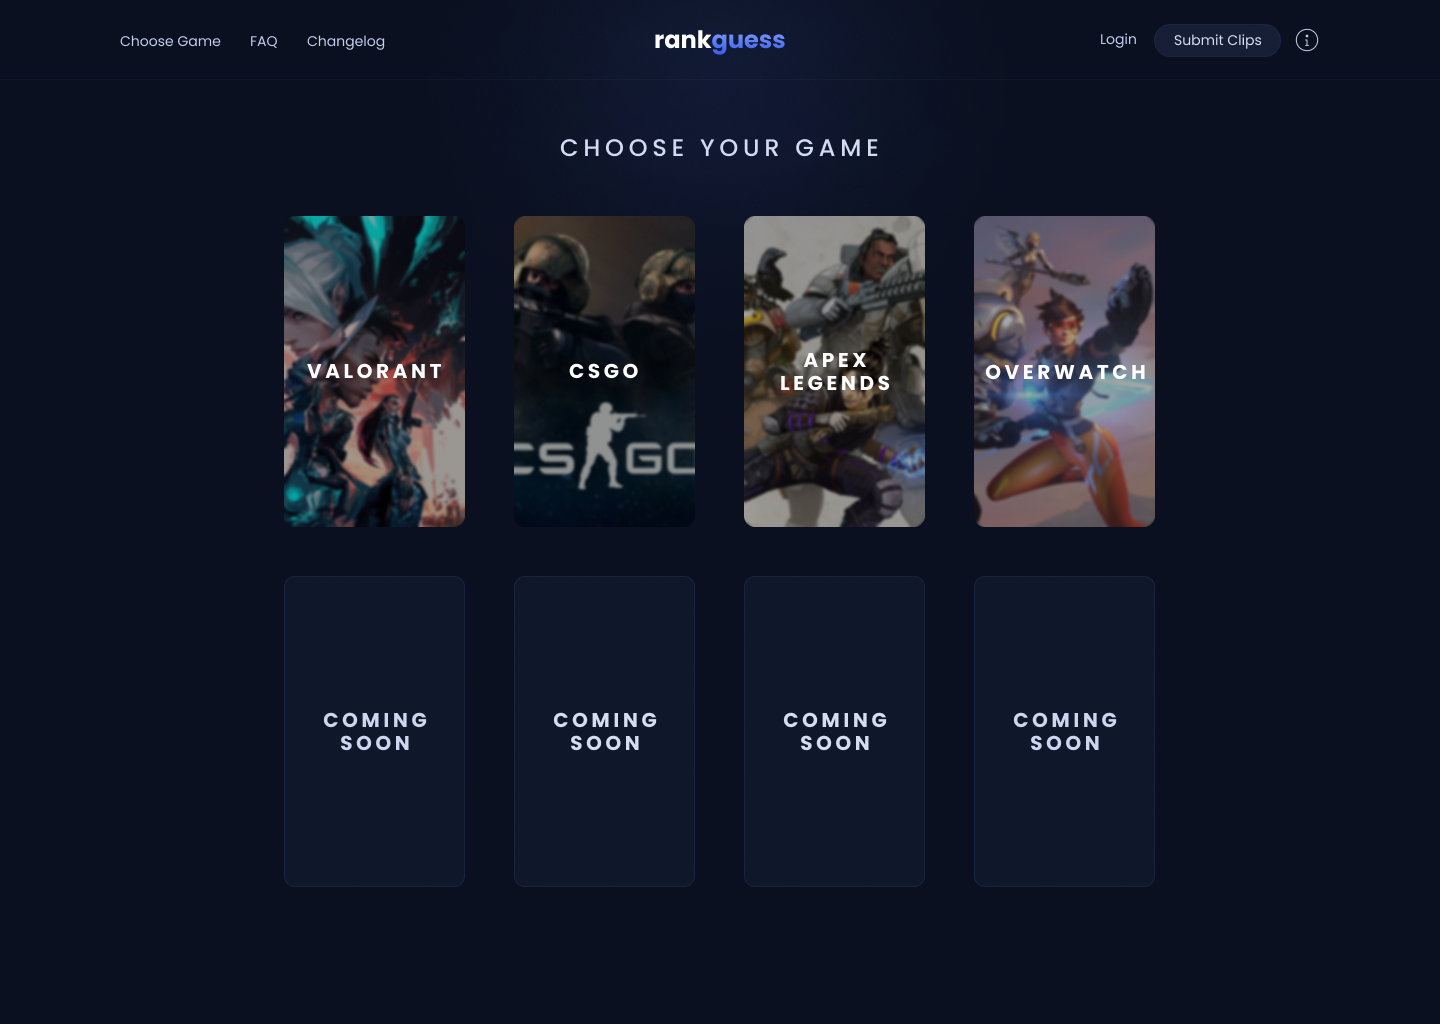
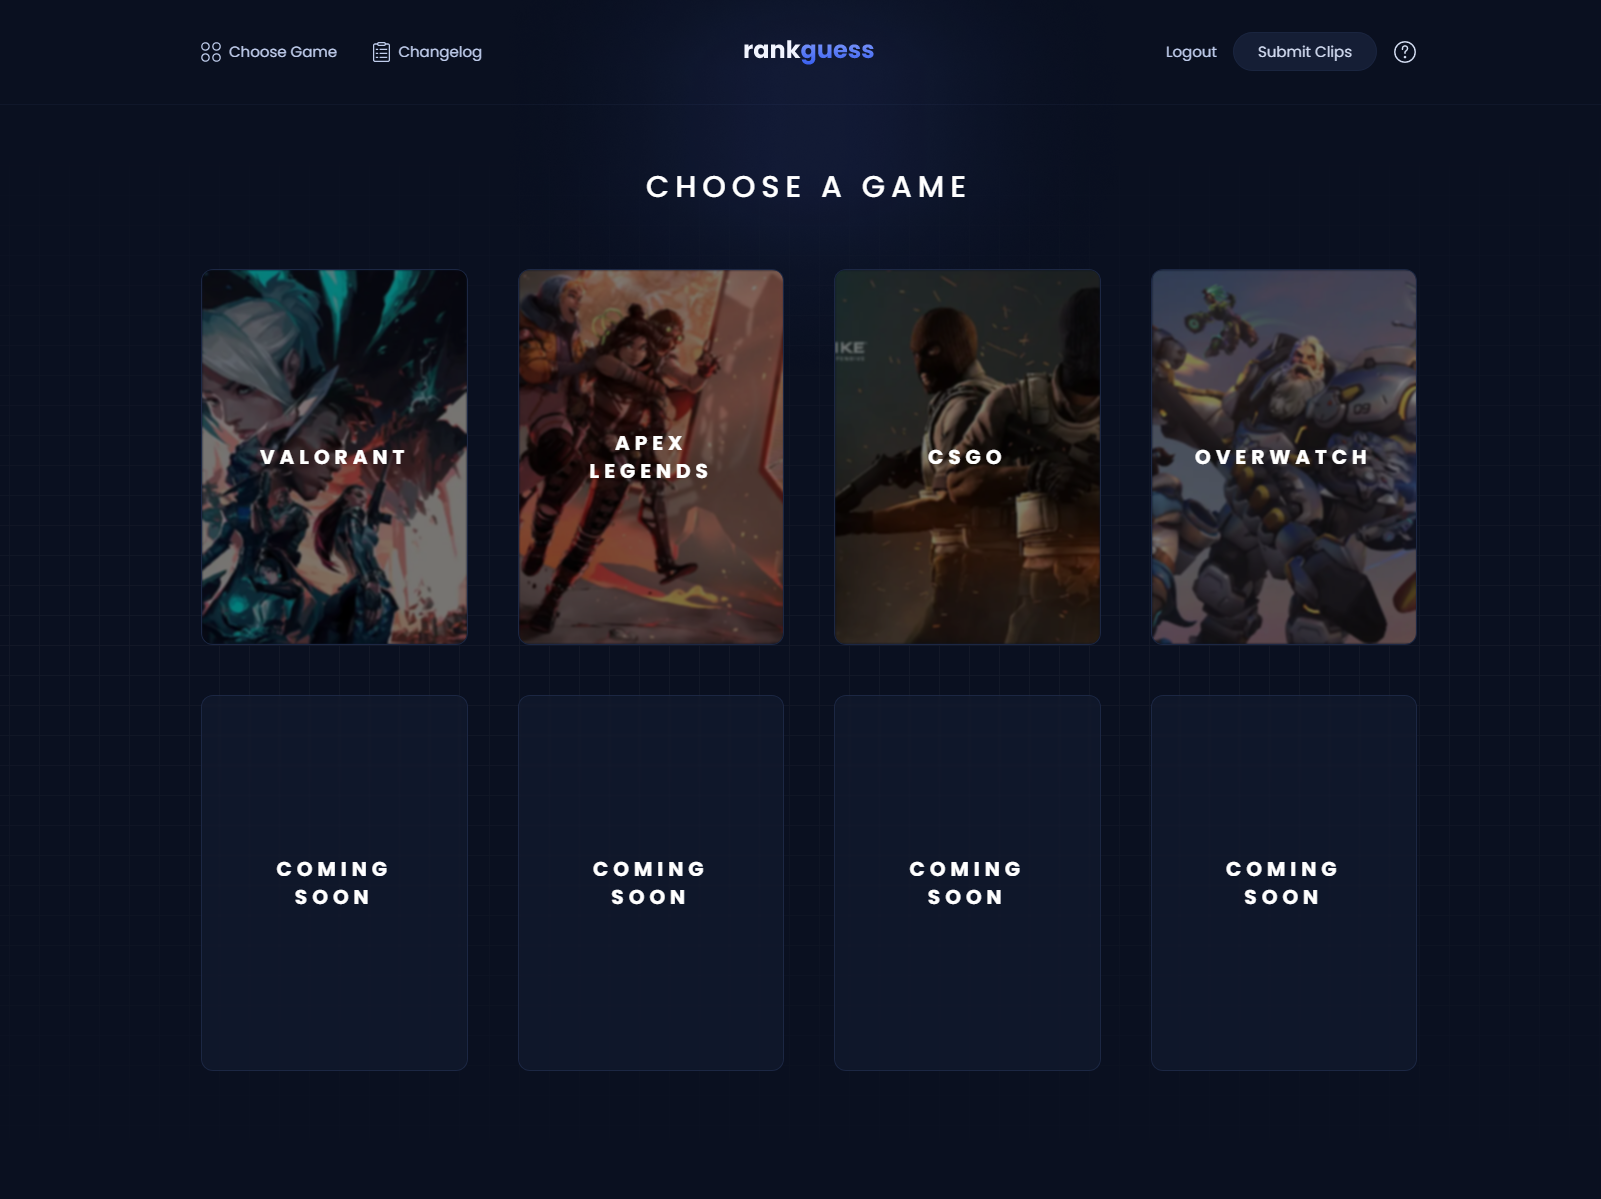
Changelog is fully functional with dummy data

diff --git a/src/components/Modal.tsx b/src/components/Modal.tsx
@@ -41,12 +41,12 @@ export const ModalHeader: FC<PropsWithChildren<ModalHeaderProps>> = ({
   }, [setIsOpen]);
 
   return (
-    <div className='flex w-full items-start justify-between border-b border-b-blueish-grey-700/80 pb-2'>
+    <div className='flex w-full items-start justify-between border-b border-b-blueish-grey-600/80 pb-2'>
       <h2 className='text-lg font-semibold text-neutral-100 md:text-xl lg:text-2xl'>
         {children}
       </h2>
       <button
-        className='absolute right-[-1px] top-[-1px] rounded-bl-xl rounded-tr-xl border border-blueish-grey-700/80 bg-blueish-grey-800 bg-opacity-[20%] p-2 text-neutral-200 transition-colors duration-150 hover:bg-opacity-[80%] hover:text-neutral-100'
+        className='absolute right-[-1px] top-[-1px] rounded-bl-xl rounded-tr-xl border border-blueish-grey-600/80 bg-blueish-grey-600 bg-opacity-[20%] p-2 text-neutral-200 transition-colors duration-150 hover:bg-opacity-[60%] hover:text-neutral-100'
         onClick={handleClose}>
         <span className='sr-only'>Close information modal</span>
         <Close className='h-4 w-auto' />
@@ -57,16 +57,16 @@ export const ModalHeader: FC<PropsWithChildren<ModalHeaderProps>> = ({
 
 export const ModalBody: FC<PropsWithChildren> = ({ children }) => {
   return (
-    <p className='slim-scrollbar w-full overflow-y-auto py-3 text-neutral-200'>
+    <div className='slim-scrollbar w-full overflow-y-auto py-3 text-neutral-200'>
       {children}
-    </p>
+    </div>
   );
 };
 
 export const ModalFooter: FC<PropsWithChildren> = ({ children }) => {
   return (
-    <div className='w-full border-t border-t-blueish-grey-700/80 pt-3 text-sm text-neutral-200 md:text-base'>
-      <p>{children}</p>
+    <div className='w-full border-t border-t-blueish-grey-600/80 pt-3 text-sm text-neutral-200 md:text-base'>
+      {children}
     </div>
   );
 };
@@ -110,7 +110,7 @@ export const Modal: FC<PropsWithChildren<ModalProps>> = ({
         <Container>
           <div
             onClick={e => e.stopPropagation()}
-            className='flex max-h-[60vh] min-h-[10rem] w-full flex-col items-start overflow-hidden rounded-xl border border-blueish-grey-700/80 bg-blueish-grey-800 bg-opacity-[70%] p-8 backdrop-blur-[6px] md:max-h-[70vh] md:min-w-[35rem] md:max-w-[35rem] lg:min-w-[40rem] lg:max-w-[45rem]'>
+            className='flex max-h-[60vh] min-h-[10rem] w-full flex-col items-start overflow-hidden rounded-xl border border-blueish-grey-600/80 bg-blueish-grey-800 bg-opacity-[70%] p-8 backdrop-blur-[6px] md:max-h-[70vh] md:min-w-[35rem] md:max-w-[35rem] lg:min-w-[40rem] lg:max-w-[45rem]'>
             {children}
           </div>
         </Container>

diff --git a/src/data/changelog.tsx b/src/data/changelog.tsx
@@ -1,0 +1,79 @@
+interface ChangelogProps {
+  version: string;
+  date: string;
+  changes: {
+    title: string;
+    change: string[];
+  }[];
+}
+
+const changelog: ChangelogProps[] = [
+  {
+    version: '1.3.0',
+    date: 'March 5, 2023',
+    changes: [
+      {
+        title: 'Lorem ipsum dolor',
+        change: [
+          'Lorem, ipsum dolor sit amet consectetur adipisicing elit. Assumenda, magni?',
+        ],
+      },
+      {
+        title: 'Another System',
+        change: [
+          'Lorem, ipsum dolor sit amet consectetur adipisicing elit. Assumenda, magni?',
+          'Lorem ipsum dolor sit amet consectetur adipisicing elit. Nemo eaque repudiandae vel, cum excepturi, nisi autem officia quia dolorem temporibus ducimus, voluptate vero sed ullam.',
+        ],
+      },
+    ],
+  },
+  {
+    version: '1.2.0',
+    date: 'March 5, 2023',
+    changes: [
+      {
+        title: 'Lorem ipsum dolor sit amet',
+        change: [
+          'Lorem, ipsum dolor sit amet consectetur adipisicing elit. Assumenda, magni?',
+        ],
+      },
+      {
+        title: 'Another',
+        change: [
+          'Lorem, ipsum adipisicing?',
+          'Lorem ipsum dolor sit amet consectetur adipisicing elit. Nemo eaque repudiandae vel, cum excepturi, nisi autem officia quia dolorem temporibus ducimus, voluptate vero sed ullam.',
+        ],
+      },
+    ],
+  },
+  {
+    version: '1.1.0',
+    date: 'March 5, 2023',
+    changes: [
+      {
+        title: 'Lorem sit amet',
+        change: [
+          'Created an authentication system using NextAuths Google Provider and Prisma',
+          'Lorem, ipsum dolor sit amet consectetur adipisicing elit. Assumenda, magni?',
+          'Lorem ipsum dolor sit amet consectetur adipisicing elit. Nemo eaque repudiandae vel, cum excepturi, nisi autem officia quia dolorem temporibus ducimus, voluptate vero sed ullam.',
+        ],
+      },
+    ],
+  },
+  {
+    version: '1.0.0',
+    date: 'March 5, 2023',
+    changes: [
+      {
+        title: 'Lorem, ipsum dolor.',
+        change: [
+          'Lorem ipsum dolor sit amet consectetur.',
+          'Lorem ipsum dolor, sit amet consectetur adipisicing elit. Ipsa sapiente iste suscipit, rem tempore labore.',
+          'Lorem ipsum dolor sit amet consectetur adipisicing elit. Numquam adipisci, cumque expedita accusamus nisi esse alias magnam unde officia commodi.',
+        ],
+      },
+    ],
+  },
+];
+
+export default changelog;

diff --git a/src/components/Header.tsx b/src/components/Header.tsx
@@ -12,14 +12,13 @@ import Hamburger from './icons/Hamburger';
 import NavItem from './NavItem';
 import navigationItems from '@/data/navigationItems';
 import { Modal, ModalBody, ModalFooter, ModalHeader } from './Modal';
-import { signIn } from 'next-auth/react';
 import { useSession } from 'next-auth/react';
 
 const Header: FC = () => {
   const [isMobileMenuOpen, setIsMobileMenuOpen] = useState(false);
   const [isInformationModalOpen, setIsInformationModalOpen] = useState(false);
   const informationModalButtonRef = useRef<any>(null);
-  const { data: session, status } = useSession();
+  const { status } = useSession();
 
   const handleInformationModalOpened = () => {
     setIsMobileMenuOpen(false);
@@ -80,7 +79,7 @@ const Header: FC = () => {
   }, []);
 
   return (
-    <header className='z-10 border-b border-b-blueish-grey-700/25'>
+    <header className='z-10 border-b border-b-blueish-grey-600/25'>
       <Container className='flex h-navigation-height items-center'>
         <div className='flex w-full items-center justify-between gap-2 text-neutral-300'>
           <div className='flex flex-grow basis-0 md:hidden'>
@@ -104,7 +103,7 @@ const Header: FC = () => {
             className={clsx(
               'flex-grow basis-0 md:flex',
               isMobileMenuOpen
-                ? 'slim-scrollbar absolute left-0 top-navigation-height right-0 z-10 block h-[calc(100%-var(--navigation-height))] overflow-y-auto border-t border-t-blueish-grey-700/25 bg-blueish-grey-800'
+                ? 'slim-scrollbar absolute left-0 top-navigation-height right-0 z-10 block h-[calc(100%-var(--navigation-height))] overflow-y-auto border-t border-t-blueish-grey-600/25 bg-blueish-grey-800'
                 : 'hidden'
             )}>
             <ConditionalWrapper
@@ -175,7 +174,7 @@ const Header: FC = () => {
               )}
               <li>
                 <Link
-                  className='rounded-full border border-blueish-grey-700/50 bg-blueish-grey-700/50 px-6 py-2 text-neutral-200 transition-colors duration-200 hover:text-neutral-100'
+                  className='rounded-full border border-blueish-grey-600/50 bg-blueish-grey-600/50 px-6 py-2 text-neutral-200 transition-colors duration-200 hover:text-neutral-100'
                   href='/submit'>
                   Submit Clips
                 </Link>

diff --git a/src/pages/changelog.tsx b/src/pages/changelog.tsx
@@ -1,11 +1,40 @@
 import Container from '@/components/Container';
+import changelog from '@/data/changelog';
+import { Fragment } from 'react';
 
 export default function Changelog() {
   return (
-    <>
+    <main id='main-content' className='relative py-12 lg:pt-16 lg:pb-32'>
       <Container>
-        <div>TODO</div>
+        <section className='text-neutral-200'>
+          <div className='pointer-events-none absolute left-0 right-0 bottom-0 -top-[15.5rem] h-full w-full select-none bg-heading-circle bg-top bg-no-repeat'></div>
+          <div className='background-grid pointer-events-none absolute inset-0 select-none opacity-[7.5%]'></div>
+          <h1 className='page-heading-1 relative'>Changelog</h1>
+          <div className='relative rounded-xl border border-blueish-grey-600/80 bg-[#111B36] p-12'>
+            {changelog.map(log => (
+              <article key={log.version} className='[&:not(:first-child)]:mt-8'>
+                <h2 className='border-b border-b-blueish-grey-600/80 pb-3 text-2xl font-bold text-neutral-100'>
+                  {log.version} ({log.date})
+                </h2>
+                <div>
+                  {log.changes.map(item => (
+                    <Fragment key={item.title}>
+                      <h3 className='mt-4 text-lg font-medium text-neutral-100'>
+                        {item.title}
+                      </h3>
+                      <ul className='mt-2 list-inside list-disc'>
+                        {item.change.map(change => (
+                          <li key={change}>{change}</li>
+                        ))}
+                      </ul>
+                    </Fragment>
+                  ))}
+                </div>
+              </article>
+            ))}
+          </div>
+        </section>{' '}
       </Container>
-    </>
+    </main>
   );
 }

diff --git a/src/pages/index.tsx b/src/pages/index.tsx
@@ -57,7 +57,7 @@ export default function Home() {
           </ModalBody>
           <ModalFooter>
             <button
-              className='rounded-full border border-blueish-grey-700/50 bg-blueish-grey-700/50 px-6 py-2 text-neutral-200 transition-colors duration-200 hover:text-neutral-100'
+              className='rounded-full border border-blueish-grey-600/50 bg-blueish-grey-600/50 px-6 py-2 text-neutral-200 transition-colors duration-200 hover:text-neutral-100'
               onClick={() => setIsWorkInProgressModalOpen(false)}>
               Understood
             </button>
@@ -68,11 +68,9 @@ export default function Home() {
       <main id='main-content' className='relative py-12 lg:pt-16 lg:pb-32'>
         <Container>
           <div className='pointer-events-none absolute left-0 right-0 bottom-0 -top-[15.5rem] h-full w-full select-none bg-heading-circle bg-top bg-no-repeat'></div>
-          <div className='background-grid pointer-events-none absolute inset-0 select-none bg-bottom opacity-[7.5%]'></div>
-          <h1 className='relative text-center text-2xl font-medium uppercase tracking-[0.2em] text-neutral-200'>
-            Choose a game
-          </h1>
-          <div className='grid-games relative mt-12 lg:mt-16'>
+          <div className='background-grid pointer-events-none absolute inset-0 select-none opacity-[7.5%]'></div>
+          <h1 className='page-heading-1 relative'>Choose a game</h1>
+          <div className='grid-games relative'>
             <GameCard
               gameProps={{ gameTitle: 'Valorant', thumbnail: valorantThumb }}
             />

diff --git a/src/styles/globals.css b/src/styles/globals.css
@@ -8,16 +8,20 @@
   }
 
   html {
-    @apply scroll-smooth;
+    @apply scroll-smooth bg-blueish-grey-900 leading-relaxed text-neutral-100 antialiased;
   }
 
   html,
   body {
-    @apply max-w-[100vw] overflow-x-hidden bg-blueish-grey-900 text-neutral-100 antialiased;
+    @apply max-w-[100vw] overflow-x-hidden;
   }
 }
 
 @layer utilities {
+  .page-heading-1 {
+    @apply mb-12 text-center text-2xl font-medium uppercase tracking-[0.2em] text-neutral-100 lg:mb-16 lg:text-3xl;
+  }
+
   .grid-games {
     --grid-layout-gap: 30px;
     --grid-column-count: 4;
@@ -45,7 +49,7 @@
 
   .slim-scrollbar {
     scrollbar-width: thin;
-    scrollbar-color: @apply bg-blueish-grey-700 border-blueish-grey-800;
+    scrollbar-color: @apply bg-blueish-grey-600 border-blueish-grey-800;
   }
 
   .slim-scrollbar::-webkit-scrollbar {
@@ -53,7 +57,7 @@
   }
 
   .slim-scrollbar::-webkit-scrollbar-thumb {
-    @apply rounded-lg border-2 border-solid border-blueish-grey-800 bg-blueish-grey-700;
+    @apply rounded-lg border-2 border-solid border-blueish-grey-800 bg-blueish-grey-600;
   }
 
   .slim-scrollbar::-webkit-scrollbar-thumb:hover {

diff --git a/src/components/GameCard.tsx b/src/components/GameCard.tsx
@@ -58,7 +58,7 @@ const GameCardChildren: FC<GameCardProps> = ({ gameProps }) => {
 
 const GameCard: FC<GameCardProps> = ({ gameProps }) => {
   const gameCardClasses =
-    'group relative mx-auto flex min-h-[10rem] w-full max-w-[18rem] items-center justify-center overflow-hidden rounded-xl border border-blueish-grey-700/80 bg-blueish-grey-700 bg-opacity-[25%] p-8 text-center backdrop-blur-[1px] xs:max-w-[22rem] sm:min-h-[23.5rem] sm:max-w-[18rem]';
+    'group relative mx-auto flex min-h-[10rem] w-full max-w-[18rem] items-center justify-center overflow-hidden rounded-xl border border-blueish-grey-600/80 bg-blueish-grey-600 bg-opacity-[25%] p-8 text-center backdrop-blur-[1px] xs:max-w-[22rem] sm:min-h-[23.5rem] sm:max-w-[18rem]';
 
   if (gameProps) {
     return (

diff --git a/src/pages/submit.tsx b/src/pages/submit.tsx
@@ -1,0 +1,33 @@
+import Container from '@/components/Container';
+import { GetServerSidePropsContext } from 'next';
+import { getServerSession } from 'next-auth';
+import { authOptions } from './api/auth/[...nextauth]';
+
+export default function Submit() {
+  return (
+    <>
+      <Container>
+        <div>Submit your own clips</div>
+      </Container>
+    </>
+  );
+}
+
+export async function getServerSideProps(context: GetServerSidePropsContext) {
+  const session = await getServerSession(context.req, context.res, authOptions);
+
+  if (!session) {
+    return {
+      redirect: {
+        destination: '/api/auth/signin',
+        permanent: false,
+      },
+    };
+  }
+
+  return {
+    props: {
+      session,
+    },
+  };
+}

diff --git a/tailwind.config.js b/tailwind.config.js
@@ -10,7 +10,8 @@ module.exports = {
       'blue-300': '#5476f2',
       'blue-400': '#2B55EE',
       'blueish-grey-500': '#425B99',
-      'blueish-grey-700': '#202C4A',
+      'blueish-grey-600': '#202C4A',
+      'blueish-grey-700': '#111B36',
       'blueish-grey-800': '#0B1324',
       'blueish-grey-900': '#0A1020',
       'neutral-100': '#FFFFFF',
